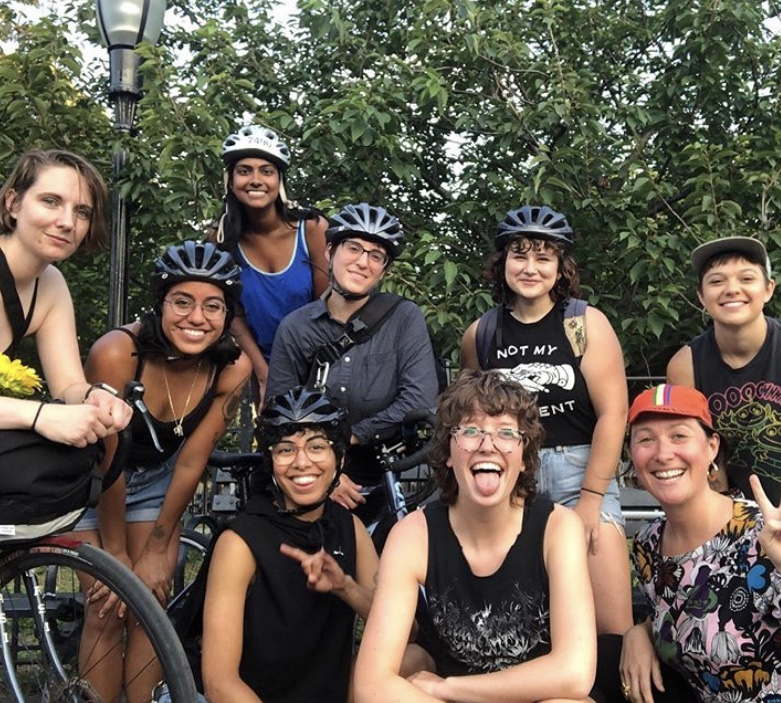
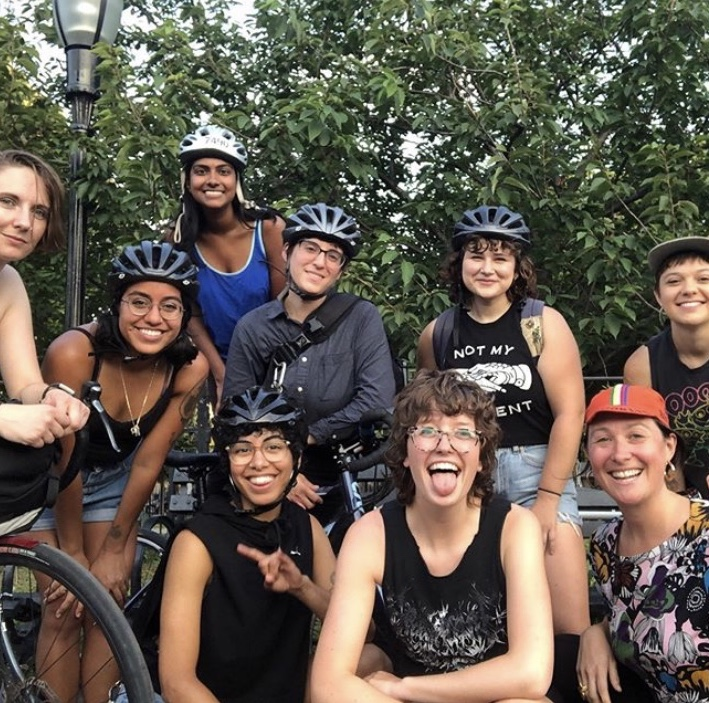
changed photos

diff --git a/index.html b/index.html
@@ -16,9 +16,9 @@
             <br>
             Fullstack Web Developer</h1>
           <div class="image">
-            <img src="images/profile.jpg" alt= "Profile photo of Sanja" width="300" height="400" >
+            <img src="images/headshot.jpg" alt= "Profile photo of Sanja" width="250" height="370" >
           </div>
-              <h2>Web Developer ▪ Cycling Community Advocate ▪ Singer</h2>
+              <h2>Web Developer <i class="fas fa-square"></i> Cycling Community Advocate <i class="fas fa-square"></i> Singer</h2>
                 <h3><a class="btn" href="https://www.linkedin.com/in/sanja-wetzel">Let's connect!</a></h3>
                   <p>I am presently seeking opportunities at a growing startup with a strong
                   commitment to social causes, particularly those that create opportunities
@@ -26,16 +26,16 @@
 
                   <p>My projects from Le Wagon can be found here:</p>
                     <ul>
-                      <a href="http://www.welcome-mentors.com/" target="_blank">Welcome</a>
+                      <a href="http://www.welcome-mentors.com/" target="_blank"><i class="far fa-compass"></i> Welcome</a></i>
                       <br>
-                      <a href="https://bike-match-sweetening.herokuapp.com/" target="_blank">Bike Match</a>
+                      <a href="https://bike-match-sweetening.herokuapp.com/" target="_blank"><i class="fas fa-bicycle"></i> Bike Match</a>
                     </ul>
 
                   <p>For more information on my cycling organization NightCAP Brooklyn and one of my musical projects, Elliott's Girls Chorus, follow the links below!</p>
-                  <div class="round-image">
+                  <div class="image">
                     <ul>
-                      <img src="images/nightcap.jpg" alt= "photo of nightcap_brooklyn" width="300" height="300" >
-                      <img src="images/egc.jpg" alt= "photo of elliottsgirlschorus" width="300" height="300" >
+                      <a href="https://www.instagram.com/nightcap_brooklyn/?hl=en" target="_blank"><img src="images/nightcap.jpg" alt= "photo of nightcap_brooklyn" width="300" height="300" ></a>
+                      <a href="https://elliottsgirlschorus.bandcamp.com/album/elliotts-girls-chorus" target="_blank"><img src="images/egc.jpg" alt= "photo of elliottsgirlschorus" width="300" height="300" ></a>
                     </ul>
                   </div>
       </div>

diff --git a/style.css b/style.css
@@ -3,7 +3,7 @@
   margin: 0 auto;
   box-shadow: 0px 0px 10px grey;
   padding: 20px;
-  border-radius: 4px;
+  border-radius: 10px;
   background-color: #EAEAEA;
   text-align: center;
 }
@@ -14,16 +14,13 @@
   justify-content: center;
 }
 
-.round-image {
-  border-radius: 50px;
-}
-
 .card {
-  width: 700px;   /* This sets the width */
+  width: 720px;   /* This sets the width */
   margin: 5 auto;
   margin-top: 14px;
-  padding: 20px;
-  border-radius: 4px;
+  margin-bottom: 2px;
+  padding: 10px;
+  border-radius: 10px;
   background-color: #EAEAEA;
   text-align: center;
   font-size: 20px;
@@ -45,22 +42,15 @@
 }
 
 .btn:hover {
-  text-decoration: underline;
+  text-decoration: none;
   opacity: 0.8;
-  color: black;
+  color: white;
 }
 
 .image {
   width: 700px;
   margin: 10 auto;
   padding: 4px;
-  border-radius: 4px;
-  background-color: #EAEAEA;
-}
-
-.bottom_image {
-  width: 300px;
-  margin: 10 auto;
   border-radius: 4px;
   background-color: #EAEAEA;
 }
@@ -75,19 +65,19 @@ a {
 }
 
 a:hover {
-  text-decoration: underline;
+  text-decoration: none;
   opacity: 0.8;
   color: #0E4749;
 }
 
 body {
-  /*background-color: #EAEAEA;*/
-  background-image: url("https://i.picsum.photos/id/204/1800/1649.jpg");
+  background-color: #222831;
   opacity: 0.9;
   text-align: center;
   justify-content: all;
   font-family: 'Asap', sans-serif;
-  padding-bottom: 200px;
+  padding-top: 5px;
+  padding-bottom: 5px;
 
 }
 h1 {
